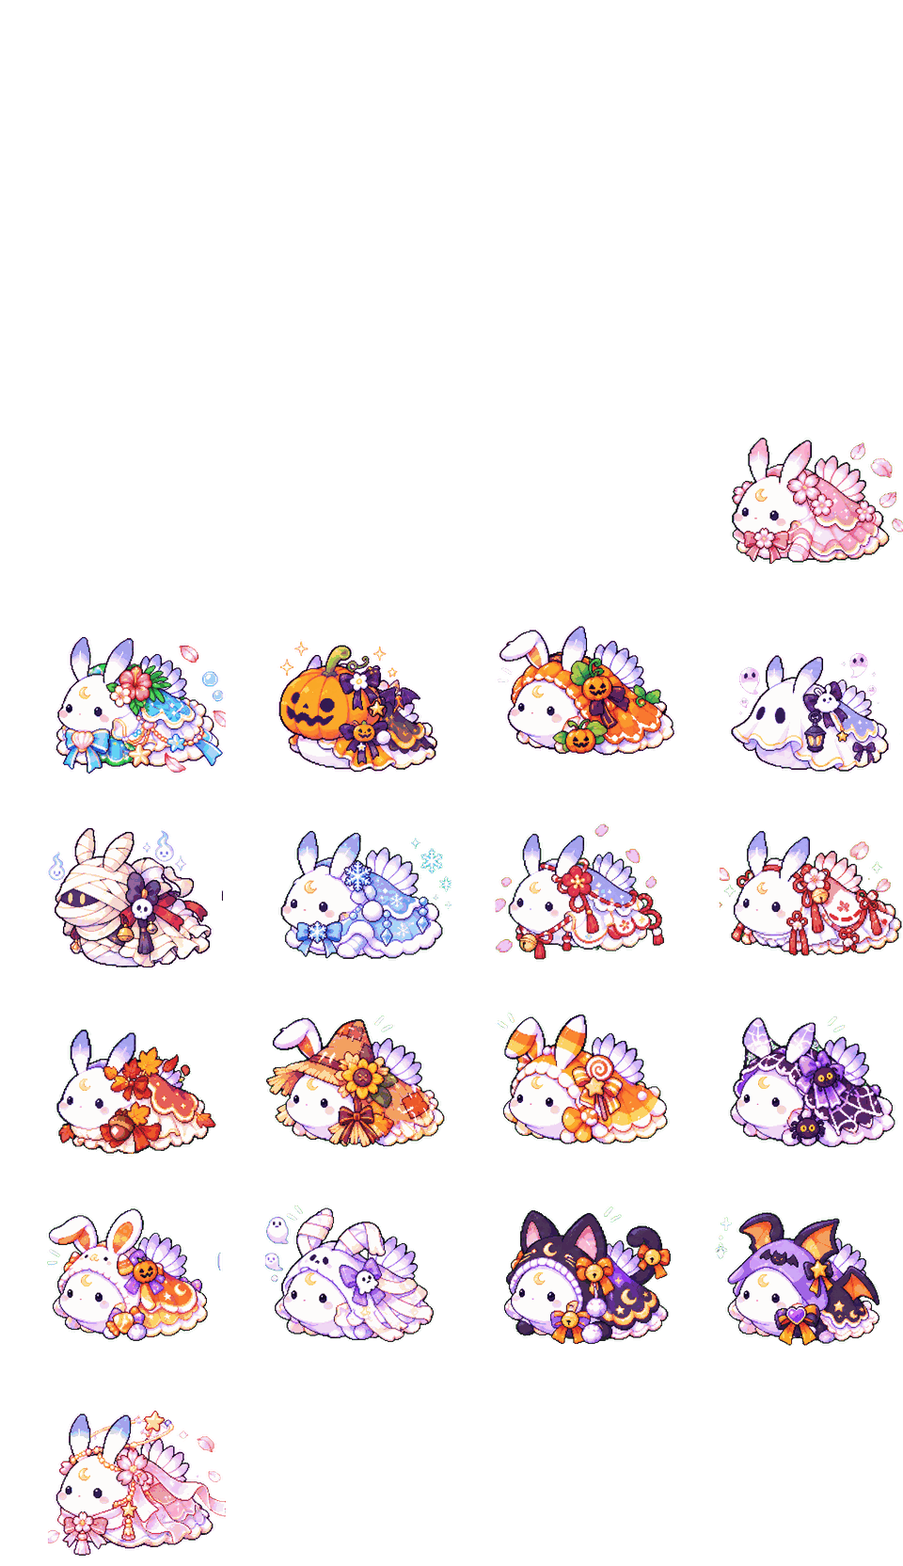
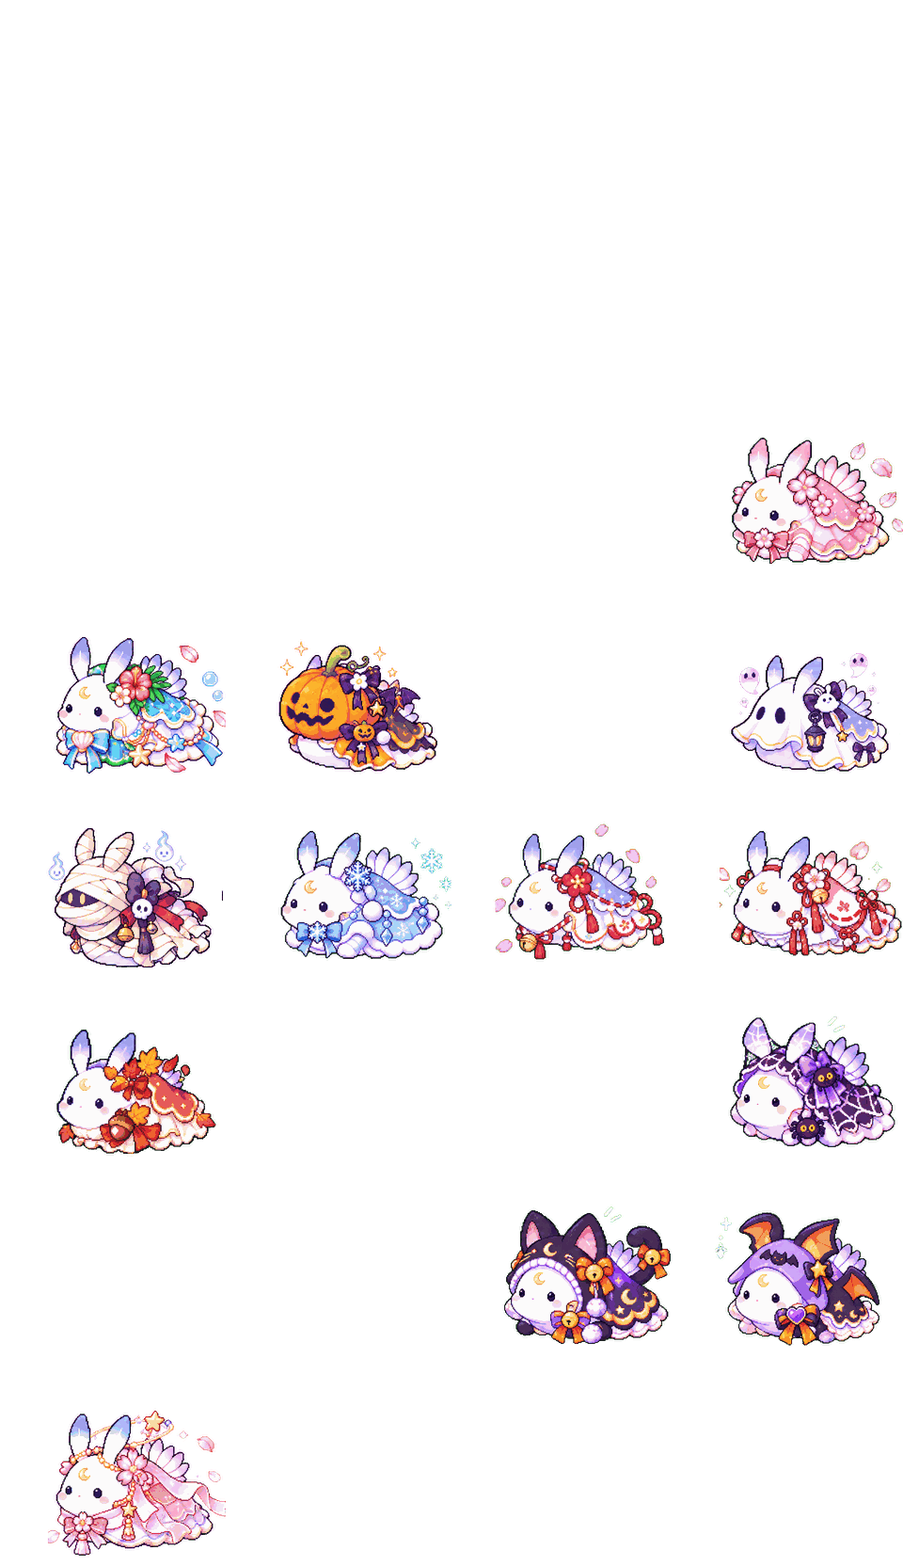
触角が折れる5種は2コマ目を使わない（開発版）
Claude-Session: https://claude.ai/code/session_01En9haaG1tLySebVAqR1EgS

diff --git a/source/game.html b/source/game.html
@@ -473,7 +473,7 @@ const DECOR = {
   goalflag:{name:'ゴールフラッグ',cost:1, r:26, h:70, gift:true},
   podium:{name:'ひょうしょうだい',cost:3, r:52, h:34, gift:true},
 };
-const COS = {"cw": 240, "ch": 208, "cols": 4, "s": 0.8, "ex": 130, "ey": 165, "m": {"bear": {"g": 220.0, "lid": "#fdfdff", "le": [-39.0, -4.2], "s": "animal", "i": 0}, "space": {"g": 230.0, "lid": "#fdfdff", "le": [-39.0, -2.1], "s": "dream", "i": 1}, "explorer": {"g": 221.2, "lid": "#fdfdff", "le": [-39.0, -3.8], "s": "work", "i": 0}, "newyear": {"g": 227.5, "lid": "#fdfdff", "le": [-39.0, -3.0], "s": "season", "i": 10}, "witch": {"g": 216.2, "lid": "#ede3fc", "le": [-39.0, -3.3], "s": "season", "i": 8}, "santa": {"g": 213.8, "lid": "#fdfdff", "le": [-39.0, -3.7], "s": "season", "i": 9}, "yukata": {"g": 217.5, "lid": "#fdfdff", "le": [-39.0, -3.7], "s": "season", "i": 2}, "knit": {"g": 238.8, "lid": "#fdfdff", "le": [-39.0, -3.2], "s": "fashion", "i": 4}, "hoodie": {"g": 230.0, "lid": "#fcfdff", "le": [-35.9, -2.9], "s": "fashion", "i": 5}, "miko": {"g": 228.8, "lid": "#fcfdff", "le": [-39.0, -2.4], "s": "work", "i": 5}, "idol": {"g": 233.8, "lid": "#fcfdfe", "le": [-39.0, -3.1], "s": "work", "i": 6}, "maid": {"g": 188.8, "lid": "#ded9f6", "le": [-47.6, -6.3], "s": "work", "i": 7}, "gothic": {"g": 225.0, "lid": "#2f2c42", "le": [-39.0, -2.4], "s": "fashion", "i": 6}, "sakura": {"g": 220.0, "lid": "#fdecf4", "le": [-39.0, -3.0], "s": "season", "i": 0}, "blueberry": {"g": 215.0, "lid": "#6658d1", "le": [-39.0, -3.2], "s": "food", "i": 3}, "lemon": {"g": 215.0, "lid": "#fbf9c1", "le": [-39.0, -4.1], "s": "food", "i": 1}, "strawberry": {"g": 217.5, "lid": "#fef8fc", "le": [-39.0, -3.7], "s": "food", "i": 0}, "chick": {"g": 216.2, "lid": "#fdfdff", "le": [-39.0, -3.8], "s": "animal", "i": 1}, "dog": {"g": 215.0, "lid": "#fdfdff", "le": [-39.0, -3.1], "s": "animal", "i": 2}, "mango": {"g": 213.8, "lid": "#fbb910", "le": [-39.0, -4.3], "s": "food", "i": 4}, "raincoat": {"g": 223.8, "lid": "#fdfdfd", "le": [-39.0, -3.0], "s": "relax", "i": 3}, "matcha": {"g": 216.2, "lid": "#9ed543", "le": [-39.0, -2.9], "s": "food", "i": 2}, "chef": {"g": 218.8, "lid": "#fdfdff", "le": [-39.0, -4.6], "s": "work", "i": 1}, "musician": {"g": 226.2, "lid": "#fdfdff", "le": [-39.0, -5.0], "s": "work", "i": 3}, "nurse": {"g": 216.2, "lid": "#fbfcff", "le": [-39.0, -3.0], "s": "work", "i": 2}, "camping": {"g": 232.5, "lid": "#fdfdff", "le": [-35.9, -4.1], "s": "relax", "i": 2}, "pajama": {"g": 225.0, "lid": "#fdfdff", "le": [-39.0, -3.6], "s": "relax", "i": 0}, "ghostmaid": {"g": 226.2, "lid": "#fdfbff", "le": [-35.9, -3.8], "s": "dream", "i": 4}, "constellation": {"g": 216.2, "lid": "#fdfdff", "le": [-39.0, -3.8], "s": "dream", "i": 0}, "asagao": {"g": 227.5, "lid": "#fdfdff", "le": [-34.3, -2.8], "s": "season", "i": 4}, "grape": {"g": 217.5, "lid": "#fdfdff", "le": [-39.0, -3.2], "s": "food", "i": 5}, "higanbana": {"g": 216.2, "lid": "#fdfdff", "le": [-39.0, -3.7], "s": "season", "i": 5}, "momiji": {"g": 216.2, "lid": "#fdfdff", "le": [-39.0, -3.5], "s": "season", "i": 7}, "randoseru": {"g": 221.2, "lid": "#fdfdff", "le": [-39.0, -4.0], "s": "season", "i": 1}, "goldfish": {"g": 223.8, "lid": "#fdfdff", "le": [-35.9, -3.5], "s": "season", "i": 3}, "angel": {"g": 218.8, "lid": "#fdfdff", "le": [-39.0, -3.4], "s": "dream", "i": 2}, "jugoya": {"g": 226.2, "lid": "#fcfdff", "le": [-31.2, -2.3], "s": "season", "i": 6}, "devil": {"g": 216.2, "lid": "#fdfdff", "le": [-39.0, -1.1], "s": "dream", "i": 3}, "crown": {"g": 220.0, "lid": "#fdfdff", "le": [-39.0, -3.5], "s": "fashion", "i": 2}, "flower": {"g": 215.0, "lid": "#fdfdff", "le": [-39.0, -3.5], "s": "fashion", "i": 1}, "cat": {"g": 217.5, "lid": "#fcfdff", "le": [-39.0, -3.2], "s": "animal", "i": 3}, "sailor": {"g": 221.2, "lid": "#fdfdff", "le": [-39.0, -3.4], "s": "fashion", "i": 3}, "rabbit": {"g": 217.5, "lid": "#fdfdff", "le": [-39.0, -2.7], "s": "animal", "i": 4}, "ribbon": {"g": 217.5, "lid": "#fcfdff", "le": [-39.0, -3.7], "s": "fashion", "i": 0}, "delivery": {"g": 215.0, "lid": "#fdfdff", "le": [-39.0, -3.2], "s": "work", "i": 4}, "bath": {"g": 238.8, "lid": "#fdfdff", "le": [-35.1, -3.5], "s": "relax", "i": 1}, "kinoko": {"ne": 1, "g": 245.0, "lid": "#ed584c", "le": [-39.0, 0.0], "s": "relax", "i": 4, "f2": 1}, "dragonarmor": {"ne": 1, "g": 245.0, "lid": "#a54459", "le": [-39.0, 0.0], "s": "adv", "i": 7, "f2": 1}, "mummy": {"ne": 1, "g": 246.2, "lid": "#f4d9ce", "le": [-39.0, 0.0], "s": "season", "i": 16, "f2": 1}, "diver": {"ne": 1, "g": 246.2, "lid": "#b56e68", "le": [-39.0, 0.0], "s": "work", "i": 10, "f2": 1}, "pumpkin": {"ne": 1, "g": 245.0, "lid": "#faa625", "le": [-39.0, 0.0], "s": "season", "i": 13, "f2": 1}, "knight": {"ne": 1, "g": 246.2, "lid": "#c29a63", "le": [-39.0, 0.0], "s": "adv", "i": 0, "f2": 1}, "obake": {"ne": 1, "g": 245.0, "lid": "#fefefd", "le": [-39.0, 0.0], "s": "season", "i": 15, "f2": 1}, "mahouhood": {"ne": 1, "g": 245.0, "lid": "#6b579a", "le": [-39.0, 0.0], "s": "adv", "i": 5, "f2": 1}, "hibiscus": {"g": 246.2, "lid": "#fefefd", "le": [-39.0, -4.2], "s": "season", "i": 12, "f2": 1}, "pumpkinhood": {"g": 222.5, "lid": "#fefefd", "le": [-39.0, -4.8], "s": "season", "i": 14, "f2": 1}, "mintdress": {"g": 251.2, "lid": "#fefefd", "le": [-39.0, -2.7], "s": "princess", "i": 4, "f2": 1}, "forest": {"g": 243.8, "lid": "#fefefd", "le": [-39.0, -4.8], "s": "relax", "i": 5, "f2": 1}, "clover": {"g": 257.5, "lid": "#fefefd", "le": [-39.0, -3.5], "s": "princess", "i": 5, "f2": 1}, "ranger": {"g": 252.5, "lid": "#fefefd", "le": [-39.0, -3.5], "s": "adv", "i": 2, "f2": 1}, "darkwitch": {"g": 253.8, "lid": "#fefefd", "le": [-39.0, -4.2], "s": "adv", "i": 6, "f2": 1}, "dragonknight": {"g": 253.8, "lid": "#fefdfd", "le": [-39.0, -3.5], "s": "adv", "i": 8, "f2": 1}, "pinkprincess": {"g": 231.2, "lid": "#fefefe", "le": [-39.0, -4.2], "s": "princess", "i": 0, "f2": 1}, "wizard": {"g": 235.0, "lid": "#fefefe", "le": [-39.0, -4.3], "s": "adv", "i": 3, "f2": 1}, "saint": {"g": 243.8, "lid": "#fefefe", "le": [-39.0, -3.5], "s": "princess", "i": 6, "f2": 1}, "hero": {"g": 240.0, "lid": "#fefefd", "le": [-39.0, -4.3], "s": "adv", "i": 1, "f2": 1}, "sakuradress": {"g": 228.8, "lid": "#fefefe", "le": [-39.0, -4.6], "s": "season", "i": 11, "f2": 1}, "marine": {"g": 230.0, "lid": "#fefefe", "le": [-39.0, -4.6], "s": "fashion", "i": 7, "f2": 1}, "starwizard": {"g": 233.8, "lid": "#fefefd", "le": [-39.0, -4.5], "s": "adv", "i": 4, "f2": 1}, "snow": {"g": 232.5, "lid": "#fefefd", "le": [-39.0, -4.6], "s": "season", "i": 17, "f2": 1}, "ume": {"g": 235.0, "lid": "#fefefd", "le": [-39.0, -5.7], "s": "season", "i": 18, "f2": 1}, "painter": {"g": 228.8, "lid": "#fefefd", "le": [-39.0, -5.1], "s": "work", "i": 8, "f2": 1}, "circus": {"g": 197.5, "lid": "#cd6b6f", "le": [-39.0, 1.3], "s": "work", "i": 9, "f2": 1}, "angel3": {"g": 240.0, "lid": "#fefefd", "le": [-39.0, -5.0], "s": "dream", "i": 5, "f2": 1}, "harugi": {"g": 228.8, "lid": "#fefefd", "le": [-39.0, -5.0], "s": "season", "i": 19, "f2": 1}, "headphone": {"g": 228.8, "lid": "#fefefe", "le": [-39.0, -5.7], "s": "fashion", "i": 9, "f2": 1}, "alice": {"g": 235.0, "lid": "#fdfdfc", "le": [-39.0, -6.4], "s": "fashion", "i": 10, "f2": 1}, "prince": {"g": 226.2, "lid": "#fefefe", "le": [-39.0, -6.2], "s": "princess", "i": 3, "f2": 1}, "sumire": {"g": 222.5, "lid": "#fefefe", "le": [-39.0, -4.4], "s": "princess", "i": 1, "f2": 1}, "marine2": {"g": 222.5, "lid": "#fefefe", "le": [-39.0, -5.0], "s": "fashion", "i": 8, "f2": 1}, "ichigocake": {"g": 227.5, "lid": "#fefefe", "le": [-39.0, -3.7], "s": "food", "i": 6, "f2": 1}, "patchwork": {"g": 227.5, "lid": "#fefefd", "le": [-39.0, -4.5], "s": "fashion", "i": 11, "f2": 1}, "queen": {"g": 243.8, "lid": "#fefefe", "le": [-39.0, -5.0], "s": "princess", "i": 2, "f2": 1}, "sweets": {"g": 252.5, "lid": "#fefefe", "le": [-39.0, -4.3], "s": "food", "i": 7, "f2": 1}, "toy": {"g": 250.0, "lid": "#fefefd", "le": [-39.0, -4.3], "s": "fashion", "i": 12, "f2": 1}, "teahat": {"g": 240.0, "lid": "#fefefd", "le": [-39.0, -3.6], "s": "food", "i": 8, "f2": 1}, "detective": {"g": 238.8, "lid": "#fefefe", "le": [-39.0, -3.6], "s": "work", "i": 11, "f2": 1}, "cyber": {"g": 238.8, "lid": "#fefefd", "le": [-39.0, -4.3], "s": "fashion", "i": 13, "f2": 1}, "starangel": {"g": 240.0, "lid": "#fefefd", "le": [-39.0, -4.2], "s": "dream", "i": 6, "f2": 1}, "tiara": {"g": 237.5, "lid": "#fefefd", "le": [-39.0, -3.7], "s": "princess", "i": 7, "f2": 1}, "strawdress": {"g": 238.8, "lid": "#fefefe", "le": [-39.0, -3.7], "s": "food", "i": 9, "f2": 1}, "blackmaid": {"g": 238.8, "lid": "#fefefe", "le": [-39.0, -3.7], "s": "fashion", "i": 14, "f2": 1}, "planet": {"g": 238.8, "lid": "#fefefe", "le": [-39.0, -4.4], "s": "dream", "i": 7, "f2": 1}, "akiha": {"g": 231.2, "lid": "#fefefe", "le": [-39.0, -3.5], "s": "season", "i": 20, "f2": 1}, "candy": {"g": 235.0, "lid": "#fefefe", "le": [-39.0, -4.2], "s": "food", "i": 10, "f2": 1}, "yozora": {"g": 232.5, "lid": "#fefefd", "le": [-39.0, -3.5], "s": "dream", "i": 8, "f2": 1}, "fox": {"g": 236.2, "lid": "#fefefe", "le": [-39.0, -2.7], "s": "animal", "i": 6, "f2": 1}, "candycorn": {"g": 222.5, "lid": "#fefefe", "le": [-39.0, -4.8], "s": "season", "i": 22, "f2": 1}, "spider": {"g": 225.0, "lid": "#fefefe", "le": [-39.0, -4.0], "s": "season", "i": 23, "f2": 1}, "scarecrow": {"g": 226.2, "lid": "#fefefe", "le": [-39.0, -4.8], "s": "season", "i": 21, "f2": 1}, "hbunny": {"g": 221.2, "lid": "#fefefe", "le": [-39.0, -5.9], "s": "season", "i": 24, "f2": 1}, "mummyhood": {"g": 221.2, "lid": "#fefdfd", "le": [-39.0, -4.7], "s": "season", "i": 25, "f2": 1}, "blackcat": {"g": 227.5, "lid": "#fefefd", "le": [-39.0, -4.8], "s": "season", "i": 26, "f2": 1}, "bat": {"g": 227.5, "lid": "#fefefd", "le": [-39.0, -4.1], "s": "season", "i": 27, "f2": 1}, "usagihood": {"g": 217.5, "lid": "#fefefd", "le": [-39.0, -5.8], "s": "animal", "i": 5, "f2": 1}, "bard": {"g": 243.8, "lid": "#fefefe", "le": [-39.0, -2.2], "s": "work", "i": 12, "f2": 1}, "thief": {"g": 247.5, "lid": "#fefefd", "le": [-39.0, -4.3], "s": "adv", "i": 9, "f2": 1}, "flameknight": {"g": 247.5, "lid": "#fefdfd", "le": [-39.0, -4.3], "s": "adv", "i": 10, "f2": 1}, "sakuraangel": {"g": 247.5, "lid": "#fefefd", "le": [-39.0, -3.5], "s": "season", "i": 28, "f2": 1}, "starsailor": {"g": 246.2, "lid": "#fefefd", "le": [-39.0, -4.3], "s": "dream", "i": 9, "f2": 1}, "leafdress": {"g": 253.8, "lid": "#fdfdfd", "le": [-39.0, -4.3], "s": "relax", "i": 6, "f2": 1}, "nightwitch": {"g": 250.0, "lid": "#fefdfc", "le": [-39.0, -4.3], "s": "adv", "i": 11, "f2": 1}, "lion": {"g": 243.8, "lid": "#fefefd", "le": [-39.0, -4.2], "s": "animal", "i": 7, "f2": 1}, "panda": {"g": 247.5, "lid": "#fefefd", "le": [-39.0, -1.4], "s": "animal", "i": 8, "f2": 1}, "giraffe": {"g": 237.5, "lid": "#fefdfd", "le": [-36.7, -3.9], "s": "animal", "i": 9, "f2": 1}, "penguin": {"g": 243.8, "lid": "#fefefd", "le": [-39.0, -4.2], "s": "animal", "i": 10, "f2": 1}, "elephant": {"g": 242.5, "lid": "#fefdfd", "le": [-39.0, -4.8], "s": "animal", "i": 11, "f2": 1}, "zebra": {"g": 247.5, "lid": "#fefdfd", "le": [-39.0, -5.0], "s": "animal", "i": 12, "f2": 1}, "monkey": {"g": 251.2, "lid": "#fefefd", "le": [-39.0, -4.9], "s": "animal", "i": 13, "f2": 1}, "flamingo": {"g": 255.0, "lid": "#fefefd", "le": [-39.0, -5.6], "s": "animal", "i": 14, "f2": 1}}};
+const COS = {"cw": 240, "ch": 208, "cols": 4, "s": 0.8, "ex": 130, "ey": 165, "m": {"bear": {"g": 220.0, "lid": "#fdfdff", "le": [-39.0, -4.2], "s": "animal", "i": 0}, "space": {"g": 230.0, "lid": "#fdfdff", "le": [-39.0, -2.1], "s": "dream", "i": 1}, "explorer": {"g": 221.2, "lid": "#fdfdff", "le": [-39.0, -3.8], "s": "work", "i": 0}, "newyear": {"g": 227.5, "lid": "#fdfdff", "le": [-39.0, -3.0], "s": "season", "i": 10}, "witch": {"g": 216.2, "lid": "#ede3fc", "le": [-39.0, -3.3], "s": "season", "i": 8}, "santa": {"g": 213.8, "lid": "#fdfdff", "le": [-39.0, -3.7], "s": "season", "i": 9}, "yukata": {"g": 217.5, "lid": "#fdfdff", "le": [-39.0, -3.7], "s": "season", "i": 2}, "knit": {"g": 238.8, "lid": "#fdfdff", "le": [-39.0, -3.2], "s": "fashion", "i": 4}, "hoodie": {"g": 230.0, "lid": "#fcfdff", "le": [-35.9, -2.9], "s": "fashion", "i": 5}, "miko": {"g": 228.8, "lid": "#fcfdff", "le": [-39.0, -2.4], "s": "work", "i": 5}, "idol": {"g": 233.8, "lid": "#fcfdfe", "le": [-39.0, -3.1], "s": "work", "i": 6}, "maid": {"g": 188.8, "lid": "#ded9f6", "le": [-47.6, -6.3], "s": "work", "i": 7}, "gothic": {"g": 225.0, "lid": "#2f2c42", "le": [-39.0, -2.4], "s": "fashion", "i": 6}, "sakura": {"g": 220.0, "lid": "#fdecf4", "le": [-39.0, -3.0], "s": "season", "i": 0}, "blueberry": {"g": 215.0, "lid": "#6658d1", "le": [-39.0, -3.2], "s": "food", "i": 3}, "lemon": {"g": 215.0, "lid": "#fbf9c1", "le": [-39.0, -4.1], "s": "food", "i": 1}, "strawberry": {"g": 217.5, "lid": "#fef8fc", "le": [-39.0, -3.7], "s": "food", "i": 0}, "chick": {"g": 216.2, "lid": "#fdfdff", "le": [-39.0, -3.8], "s": "animal", "i": 1}, "dog": {"g": 215.0, "lid": "#fdfdff", "le": [-39.0, -3.1], "s": "animal", "i": 2}, "mango": {"g": 213.8, "lid": "#fbb910", "le": [-39.0, -4.3], "s": "food", "i": 4}, "raincoat": {"g": 223.8, "lid": "#fdfdfd", "le": [-39.0, -3.0], "s": "relax", "i": 3}, "matcha": {"g": 216.2, "lid": "#9ed543", "le": [-39.0, -2.9], "s": "food", "i": 2}, "chef": {"g": 218.8, "lid": "#fdfdff", "le": [-39.0, -4.6], "s": "work", "i": 1}, "musician": {"g": 226.2, "lid": "#fdfdff", "le": [-39.0, -5.0], "s": "work", "i": 3}, "nurse": {"g": 216.2, "lid": "#fbfcff", "le": [-39.0, -3.0], "s": "work", "i": 2}, "camping": {"g": 232.5, "lid": "#fdfdff", "le": [-35.9, -4.1], "s": "relax", "i": 2}, "pajama": {"g": 225.0, "lid": "#fdfdff", "le": [-39.0, -3.6], "s": "relax", "i": 0}, "ghostmaid": {"g": 226.2, "lid": "#fdfbff", "le": [-35.9, -3.8], "s": "dream", "i": 4}, "constellation": {"g": 216.2, "lid": "#fdfdff", "le": [-39.0, -3.8], "s": "dream", "i": 0}, "asagao": {"g": 227.5, "lid": "#fdfdff", "le": [-34.3, -2.8], "s": "season", "i": 4}, "grape": {"g": 217.5, "lid": "#fdfdff", "le": [-39.0, -3.2], "s": "food", "i": 5}, "higanbana": {"g": 216.2, "lid": "#fdfdff", "le": [-39.0, -3.7], "s": "season", "i": 5}, "momiji": {"g": 216.2, "lid": "#fdfdff", "le": [-39.0, -3.5], "s": "season", "i": 7}, "randoseru": {"g": 221.2, "lid": "#fdfdff", "le": [-39.0, -4.0], "s": "season", "i": 1}, "goldfish": {"g": 223.8, "lid": "#fdfdff", "le": [-35.9, -3.5], "s": "season", "i": 3}, "angel": {"g": 218.8, "lid": "#fdfdff", "le": [-39.0, -3.4], "s": "dream", "i": 2}, "jugoya": {"g": 226.2, "lid": "#fcfdff", "le": [-31.2, -2.3], "s": "season", "i": 6}, "devil": {"g": 216.2, "lid": "#fdfdff", "le": [-39.0, -1.1], "s": "dream", "i": 3}, "crown": {"g": 220.0, "lid": "#fdfdff", "le": [-39.0, -3.5], "s": "fashion", "i": 2}, "flower": {"g": 215.0, "lid": "#fdfdff", "le": [-39.0, -3.5], "s": "fashion", "i": 1}, "cat": {"g": 217.5, "lid": "#fcfdff", "le": [-39.0, -3.2], "s": "animal", "i": 3}, "sailor": {"g": 221.2, "lid": "#fdfdff", "le": [-39.0, -3.4], "s": "fashion", "i": 3}, "rabbit": {"g": 217.5, "lid": "#fdfdff", "le": [-39.0, -2.7], "s": "animal", "i": 4}, "ribbon": {"g": 217.5, "lid": "#fcfdff", "le": [-39.0, -3.7], "s": "fashion", "i": 0}, "delivery": {"g": 215.0, "lid": "#fdfdff", "le": [-39.0, -3.2], "s": "work", "i": 4}, "bath": {"g": 238.8, "lid": "#fdfdff", "le": [-35.1, -3.5], "s": "relax", "i": 1}, "kinoko": {"ne": 1, "g": 245.0, "lid": "#ed584c", "le": [-39.0, 0.0], "s": "relax", "i": 4, "f2": 1}, "dragonarmor": {"ne": 1, "g": 245.0, "lid": "#a54459", "le": [-39.0, 0.0], "s": "adv", "i": 7, "f2": 1}, "mummy": {"ne": 1, "g": 246.2, "lid": "#f4d9ce", "le": [-39.0, 0.0], "s": "season", "i": 16, "f2": 1}, "diver": {"ne": 1, "g": 246.2, "lid": "#b56e68", "le": [-39.0, 0.0], "s": "work", "i": 10, "f2": 1}, "pumpkin": {"ne": 1, "g": 245.0, "lid": "#faa625", "le": [-39.0, 0.0], "s": "season", "i": 13, "f2": 1}, "knight": {"ne": 1, "g": 246.2, "lid": "#c29a63", "le": [-39.0, 0.0], "s": "adv", "i": 0, "f2": 1}, "obake": {"ne": 1, "g": 245.0, "lid": "#fefefd", "le": [-39.0, 0.0], "s": "season", "i": 15, "f2": 1}, "mahouhood": {"ne": 1, "g": 245.0, "lid": "#6b579a", "le": [-39.0, 0.0], "s": "adv", "i": 5, "f2": 1}, "hibiscus": {"g": 246.2, "lid": "#fefefd", "le": [-39.0, -4.2], "s": "season", "i": 12, "f2": 1}, "pumpkinhood": {"g": 222.5, "lid": "#fefefd", "le": [-39.0, -4.8], "s": "season", "i": 14}, "mintdress": {"g": 251.2, "lid": "#fefefd", "le": [-39.0, -2.7], "s": "princess", "i": 4, "f2": 1}, "forest": {"g": 243.8, "lid": "#fefefd", "le": [-39.0, -4.8], "s": "relax", "i": 5, "f2": 1}, "clover": {"g": 257.5, "lid": "#fefefd", "le": [-39.0, -3.5], "s": "princess", "i": 5, "f2": 1}, "ranger": {"g": 252.5, "lid": "#fefefd", "le": [-39.0, -3.5], "s": "adv", "i": 2, "f2": 1}, "darkwitch": {"g": 253.8, "lid": "#fefefd", "le": [-39.0, -4.2], "s": "adv", "i": 6, "f2": 1}, "dragonknight": {"g": 253.8, "lid": "#fefdfd", "le": [-39.0, -3.5], "s": "adv", "i": 8, "f2": 1}, "pinkprincess": {"g": 231.2, "lid": "#fefefe", "le": [-39.0, -4.2], "s": "princess", "i": 0, "f2": 1}, "wizard": {"g": 235.0, "lid": "#fefefe", "le": [-39.0, -4.3], "s": "adv", "i": 3, "f2": 1}, "saint": {"g": 243.8, "lid": "#fefefe", "le": [-39.0, -3.5], "s": "princess", "i": 6, "f2": 1}, "hero": {"g": 240.0, "lid": "#fefefd", "le": [-39.0, -4.3], "s": "adv", "i": 1, "f2": 1}, "sakuradress": {"g": 228.8, "lid": "#fefefe", "le": [-39.0, -4.6], "s": "season", "i": 11, "f2": 1}, "marine": {"g": 230.0, "lid": "#fefefe", "le": [-39.0, -4.6], "s": "fashion", "i": 7, "f2": 1}, "starwizard": {"g": 233.8, "lid": "#fefefd", "le": [-39.0, -4.5], "s": "adv", "i": 4, "f2": 1}, "snow": {"g": 232.5, "lid": "#fefefd", "le": [-39.0, -4.6], "s": "season", "i": 17, "f2": 1}, "ume": {"g": 235.0, "lid": "#fefefd", "le": [-39.0, -5.7], "s": "season", "i": 18, "f2": 1}, "painter": {"g": 228.8, "lid": "#fefefd", "le": [-39.0, -5.1], "s": "work", "i": 8, "f2": 1}, "circus": {"g": 197.5, "lid": "#cd6b6f", "le": [-39.0, 1.3], "s": "work", "i": 9, "f2": 1}, "angel3": {"g": 240.0, "lid": "#fefefd", "le": [-39.0, -5.0], "s": "dream", "i": 5, "f2": 1}, "harugi": {"g": 228.8, "lid": "#fefefd", "le": [-39.0, -5.0], "s": "season", "i": 19, "f2": 1}, "headphone": {"g": 228.8, "lid": "#fefefe", "le": [-39.0, -5.7], "s": "fashion", "i": 9, "f2": 1}, "alice": {"g": 235.0, "lid": "#fdfdfc", "le": [-39.0, -6.4], "s": "fashion", "i": 10, "f2": 1}, "prince": {"g": 226.2, "lid": "#fefefe", "le": [-39.0, -6.2], "s": "princess", "i": 3, "f2": 1}, "sumire": {"g": 222.5, "lid": "#fefefe", "le": [-39.0, -4.4], "s": "princess", "i": 1, "f2": 1}, "marine2": {"g": 222.5, "lid": "#fefefe", "le": [-39.0, -5.0], "s": "fashion", "i": 8, "f2": 1}, "ichigocake": {"g": 227.5, "lid": "#fefefe", "le": [-39.0, -3.7], "s": "food", "i": 6, "f2": 1}, "patchwork": {"g": 227.5, "lid": "#fefefd", "le": [-39.0, -4.5], "s": "fashion", "i": 11, "f2": 1}, "queen": {"g": 243.8, "lid": "#fefefe", "le": [-39.0, -5.0], "s": "princess", "i": 2, "f2": 1}, "sweets": {"g": 252.5, "lid": "#fefefe", "le": [-39.0, -4.3], "s": "food", "i": 7, "f2": 1}, "toy": {"g": 250.0, "lid": "#fefefd", "le": [-39.0, -4.3], "s": "fashion", "i": 12, "f2": 1}, "teahat": {"g": 240.0, "lid": "#fefefd", "le": [-39.0, -3.6], "s": "food", "i": 8, "f2": 1}, "detective": {"g": 238.8, "lid": "#fefefe", "le": [-39.0, -3.6], "s": "work", "i": 11, "f2": 1}, "cyber": {"g": 238.8, "lid": "#fefefd", "le": [-39.0, -4.3], "s": "fashion", "i": 13, "f2": 1}, "starangel": {"g": 240.0, "lid": "#fefefd", "le": [-39.0, -4.2], "s": "dream", "i": 6, "f2": 1}, "tiara": {"g": 237.5, "lid": "#fefefd", "le": [-39.0, -3.7], "s": "princess", "i": 7, "f2": 1}, "strawdress": {"g": 238.8, "lid": "#fefefe", "le": [-39.0, -3.7], "s": "food", "i": 9, "f2": 1}, "blackmaid": {"g": 238.8, "lid": "#fefefe", "le": [-39.0, -3.7], "s": "fashion", "i": 14, "f2": 1}, "planet": {"g": 238.8, "lid": "#fefefe", "le": [-39.0, -4.4], "s": "dream", "i": 7, "f2": 1}, "akiha": {"g": 231.2, "lid": "#fefefe", "le": [-39.0, -3.5], "s": "season", "i": 20, "f2": 1}, "candy": {"g": 235.0, "lid": "#fefefe", "le": [-39.0, -4.2], "s": "food", "i": 10, "f2": 1}, "yozora": {"g": 232.5, "lid": "#fefefd", "le": [-39.0, -3.5], "s": "dream", "i": 8, "f2": 1}, "fox": {"g": 236.2, "lid": "#fefefe", "le": [-39.0, -2.7], "s": "animal", "i": 6, "f2": 1}, "candycorn": {"g": 222.5, "lid": "#fefefe", "le": [-39.0, -4.8], "s": "season", "i": 22}, "spider": {"g": 225.0, "lid": "#fefefe", "le": [-39.0, -4.0], "s": "season", "i": 23, "f2": 1}, "scarecrow": {"g": 226.2, "lid": "#fefefe", "le": [-39.0, -4.8], "s": "season", "i": 21}, "hbunny": {"g": 221.2, "lid": "#fefefe", "le": [-39.0, -5.9], "s": "season", "i": 24}, "mummyhood": {"g": 221.2, "lid": "#fefdfd", "le": [-39.0, -4.7], "s": "season", "i": 25}, "blackcat": {"g": 227.5, "lid": "#fefefd", "le": [-39.0, -4.8], "s": "season", "i": 26, "f2": 1}, "bat": {"g": 227.5, "lid": "#fefefd", "le": [-39.0, -4.1], "s": "season", "i": 27, "f2": 1}, "usagihood": {"g": 217.5, "lid": "#fefefd", "le": [-39.0, -5.8], "s": "animal", "i": 5, "f2": 1}, "bard": {"g": 243.8, "lid": "#fefefe", "le": [-39.0, -2.2], "s": "work", "i": 12, "f2": 1}, "thief": {"g": 247.5, "lid": "#fefefd", "le": [-39.0, -4.3], "s": "adv", "i": 9, "f2": 1}, "flameknight": {"g": 247.5, "lid": "#fefdfd", "le": [-39.0, -4.3], "s": "adv", "i": 10, "f2": 1}, "sakuraangel": {"g": 247.5, "lid": "#fefefd", "le": [-39.0, -3.5], "s": "season", "i": 28, "f2": 1}, "starsailor": {"g": 246.2, "lid": "#fefefd", "le": [-39.0, -4.3], "s": "dream", "i": 9, "f2": 1}, "leafdress": {"g": 253.8, "lid": "#fdfdfd", "le": [-39.0, -4.3], "s": "relax", "i": 6, "f2": 1}, "nightwitch": {"g": 250.0, "lid": "#fefdfc", "le": [-39.0, -4.3], "s": "adv", "i": 11, "f2": 1}, "lion": {"g": 243.8, "lid": "#fefefd", "le": [-39.0, -4.2], "s": "animal", "i": 7, "f2": 1}, "panda": {"g": 247.5, "lid": "#fefefd", "le": [-39.0, -1.4], "s": "animal", "i": 8, "f2": 1}, "giraffe": {"g": 237.5, "lid": "#fefdfd", "le": [-36.7, -3.9], "s": "animal", "i": 9, "f2": 1}, "penguin": {"g": 243.8, "lid": "#fefefd", "le": [-39.0, -4.2], "s": "animal", "i": 10, "f2": 1}, "elephant": {"g": 242.5, "lid": "#fefdfd", "le": [-39.0, -4.8], "s": "animal", "i": 11, "f2": 1}, "zebra": {"g": 247.5, "lid": "#fefdfd", "le": [-39.0, -5.0], "s": "animal", "i": 12, "f2": 1}, "monkey": {"g": 251.2, "lid": "#fefefd", "le": [-39.0, -4.9], "s": "animal", "i": 13, "f2": 1}, "flamingo": {"g": 255.0, "lid": "#fefefd", "le": [-39.0, -5.6], "s": "animal", "i": 14, "f2": 1}}};
 const OUTFITS = {
   normal:{name:'ノーマル'},
   ribbon:{name:'リボン',how:{lv:2}}, flower:{name:'お花',how:{lv:3}}, bear:{name:'くま',how:{lv:4}}, crown:{name:'王冠',how:{lv:5}},

diff --git a/source/costumes/build_all.py b/source/costumes/build_all.py
@@ -16,6 +16,8 @@ MANEYE.update({'kinoko': (45, 202, 101, 206), 'dragonarmor': (55, 219, 111, 223)
 # 2026-10 2回目（ピッちゃん作）35種
 MANEYE.update({'teahat': (49, 162, 103, 167), 'detective': (65, 161, 119, 166), 'cyber': (51, 165, 105, 171), 'starangel': (53, 176, 109, 182), 'tiara': (50, 155, 103, 160), 'strawdress': (48, 156, 101, 161), 'blackmaid': (47, 157, 100, 162), 'planet': (47, 158, 100, 164), 'akiha': (53, 159, 109, 164), 'candy': (52, 160, 108, 166), 'yozora': (51, 163, 107, 168), 'fox': (51, 162, 108, 166), 'candycorn': (59, 200, 116, 207), 'spider': (61, 188, 119, 194), 'scarecrow': (84, 190, 141, 197), 'hbunny': (59, 202, 118, 211), 'mummyhood': (78, 201, 136, 208), 'blackcat': (60, 194, 117, 201), 'bat': (63, 191, 120, 197), 'usagihood': (65, 164, 112, 171), 'bard': (48, 172, 102, 175), 'thief': (67, 161, 121, 167), 'flameknight': (52, 164, 106, 170), 'sakuraangel': (48, 181, 103, 186), 'starsailor': (50, 169, 104, 175), 'leafdress': (59, 168, 114, 174), 'nightwitch': (56, 175, 111, 181), 'lion': (72, 191, 128, 197), 'panda': (64, 190, 120, 192), 'giraffe': (63, 186, 119, 192), 'penguin': (63, 188, 119, 194), 'elephant': (70, 195, 127, 202), 'zebra': (62, 193, 117, 200), 'monkey': (78, 188, 134, 195), 'flamingo': (67, 223, 123, 231)})
 SRC.update({k:k for k in ['teahat', 'detective', 'cyber', 'starangel', 'tiara', 'strawdress', 'blackmaid', 'planet', 'akiha', 'candy', 'yozora', 'fox', 'candycorn', 'spider', 'scarecrow', 'hbunny', 'mummyhood', 'blackcat', 'bat', 'usagihood', 'bard', 'thief', 'flameknight', 'sakuraangel', 'starsailor', 'leafdress', 'nightwitch', 'lion', 'panda', 'giraffe', 'penguin', 'elephant', 'zebra', 'monkey', 'flamingo']})
+# 2コマ目で触角が折れる衣装は2コマ目を使わない
+NOF2={'pumpkinhood','candycorn','scarecrow','hbunny','mummyhood'}
 NEWSET=set(MANEYE)-{'devil2','gothic'}
 NOEYE=set(['kinoko', 'dragonarmor', 'mummy', 'diver', 'pumpkin', 'knight', 'obake', 'mahouhood'])
 SCALEFIX={'giraffe':.94,'bath':.9,'maid':1.22,'hoodie':.92,'jugoya':.8,'zansho':.88,'camping':.92,'goldfish':.92,'ghostmaid':.92}
@@ -49,7 +51,7 @@ for k in SRC:
         # 2コマ目（キラキラ）：体どうしを重ね合わせて、1コマ目の位置にずらす
         big=[q for q in np.argsort(sz)[::-1][:4] if sz[q]>sz.max()*.3 and q!=j]
         j2=max(big,key=lambda q:objs[q][1].start) if big else None
-        if j2 is not None:
+        if j2 is not None and n not in NOF2:
             A=body.astype(float); B=(lab==j2+1).astype(float)
             for M,o in ((A,objs[j]),(B,objs[j2])):   # 耳や帽子のちがいで ずれないよう、下の6割だけで合わせる
                 top=o[0].start+int((o[0].stop-o[0].start)*.4); M[:top]=0
